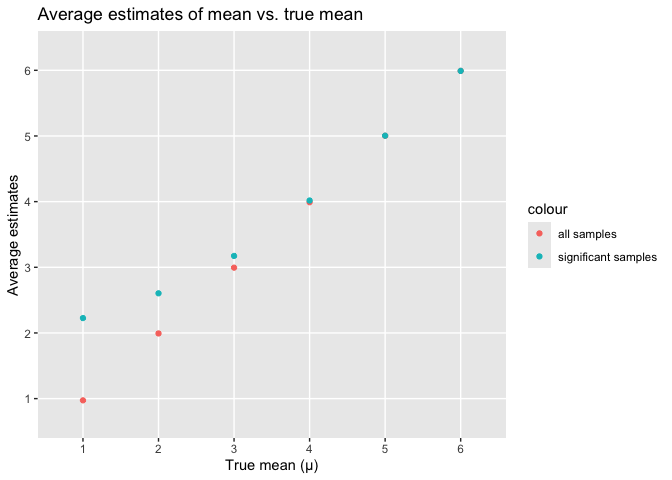
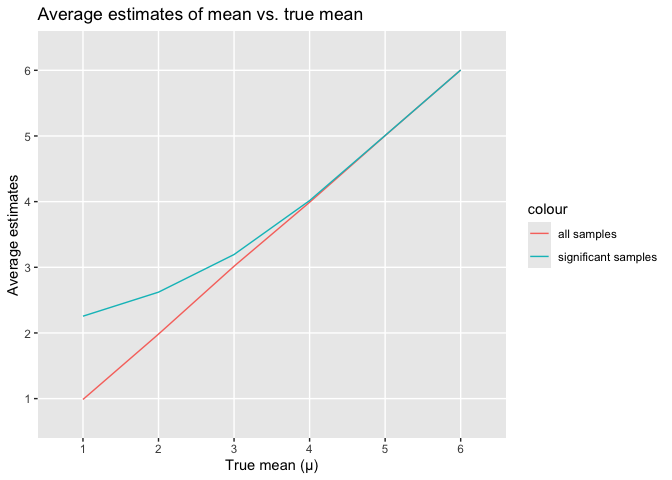
finished problem 2 and imported data for problem 3

diff --git a/P8105_hw5_zl3545.md b/P8105_hw5_zl3545.md
@@ -43,7 +43,9 @@ res_df |>
        y = "Average probability")
 ```
 
-![](P8105_hw5_zl3545_files/figure-gfm/p1_plot-1.png)<!-- --> COMMENT
+![](P8105_hw5_zl3545_files/figure-gfm/p1_plot-1.png)<!-- -->
+
+COMMENT
 
 # Problem 2
 
@@ -111,11 +113,12 @@ power_df |> ggplot(aes(x = mu,
   scale_x_discrete(limits = factor(mu))
 ```
 
-![](P8105_hw5_zl3545_files/figure-gfm/p2_plot_power-1.png)<!-- --> An
-effect size is defined as the difference between the true value of mean
-($\mu$) and the mean under our null hypothesis, which is 0. As we set
-larger and larger values for the true mean, the effect size also gets
-larger. From the above plot, we can infer that as the effect size
+![](P8105_hw5_zl3545_files/figure-gfm/p2_plot_power-1.png)<!-- -->
+
+An effect size is defined as the difference between the true value of
+mean ($\mu$) and the mean under our null hypothesis, which is 0. As we
+set larger and larger values for the true mean, the effect size also
+gets larger. From the above plot, we can infer that as the effect size
 increases, the power of the test also increases. This is because as
 effect size gets larger, it is more deviated from $\mu = 0$ (our null
 hypothesis). Therefore, it is more likely to reject the null hypothesis,
@@ -129,9 +132,9 @@ avg_mu_df = mu_res |>
 
 avg_mu_df |> 
   ggplot(aes(x = mu)) +
-  geom_point(aes(y = avg_mu_hat,
+  geom_line(aes(y = avg_mu_hat,
                  color = "all samples")) +
-  geom_point(aes(y = sig_avg_mu_hat,
+  geom_line(aes(y = sig_avg_mu_hat,
                  color = "significant samples")) +
   scale_x_discrete(limits = factor(mu)) +
   scale_y_discrete(limits = factor(1:6)) + 
@@ -141,3 +144,39 @@ avg_mu_df |>
 ```
 
 ![](P8105_hw5_zl3545_files/figure-gfm/p2_est_plot-1.png)<!-- -->
+
+From the red graph, we can see that the averages of $\hat{\mu}$ from all
+samples is equal to the true value of $\mu$. However, the blue graph
+shows that the sample averages of $\hat{\mu}$ from tests that reject the
+null hypothesis are not equal to the value of $\mu$ at the beginning,
+but they slowly converge to the value of $\mu$ as effect size increases.
+This is because when effect size is small, we need a large enough
+$\hat{\mu}$ in order to reject our null hypothesis ($\mu = 0$). When the
+effect size is large, however, we don’t need a very distinct $\hat{\mu}$
+in order to reject the null. Therefore, we can see that the graph of
+average $\hat{\mu}$ from significant samples (p \< 0.05) is higher than
+that from all samples at the beginning, but then it approaches the graph
+of average $\hat{\mu}$ from all samples and the true mean values.
+
+# Problem 3
+
+Import the data from GitHub
+
+``` r
+url = "https://raw.githubusercontent.com/washingtonpost/data-homicides/master/homicide-data.csv"
+
+homocide = read_csv(url(url))
+
+summary_df = summary(homocide)
+knitr::kable(summary_df)
+```
+
+|     | uid              | reported_date     | victim_last      | victim_first     | victim_race      | victim_age       | victim_sex       | city             | state            | lat           | lon             | disposition      |
+|:----|:-----------------|:------------------|:-----------------|:-----------------|:-----------------|:-----------------|:-----------------|:-----------------|:-----------------|:--------------|:----------------|:-----------------|
+|     | Length:52179     | Min. : 20070101   | Length:52179     | Length:52179     | Length:52179     | Length:52179     | Length:52179     | Length:52179     | Length:52179     | Min. :25.73   | Min. :-122.51   | Length:52179     |
+|     | Class :character | 1st Qu.: 20100318 | Class :character | Class :character | Class :character | Class :character | Class :character | Class :character | Class :character | 1st Qu.:33.77 | 1st Qu.: -96.00 | Class :character |
+|     | Mode :character  | Median : 20121216 | Mode :character  | Mode :character  | Mode :character  | Mode :character  | Mode :character  | Mode :character  | Mode :character  | Median :38.52 | Median : -87.71 | Mode :character  |
+|     | NA               | Mean : 20130899   | NA               | NA               | NA               | NA               | NA               | NA               | NA               | Mean :37.03   | Mean : -91.47   | NA               |
+|     | NA               | 3rd Qu.: 20150911 | NA               | NA               | NA               | NA               | NA               | NA               | NA               | 3rd Qu.:40.03 | 3rd Qu.: -81.76 | NA               |
+|     | NA               | Max. :201511105   | NA               | NA               | NA               | NA               | NA               | NA               | NA               | Max. :45.05   | Max. : -71.01   | NA               |
+|     | NA               | NA                | NA               | NA               | NA               | NA               | NA               | NA               | NA               | NA’s :60      | NA’s :60        | NA               |
